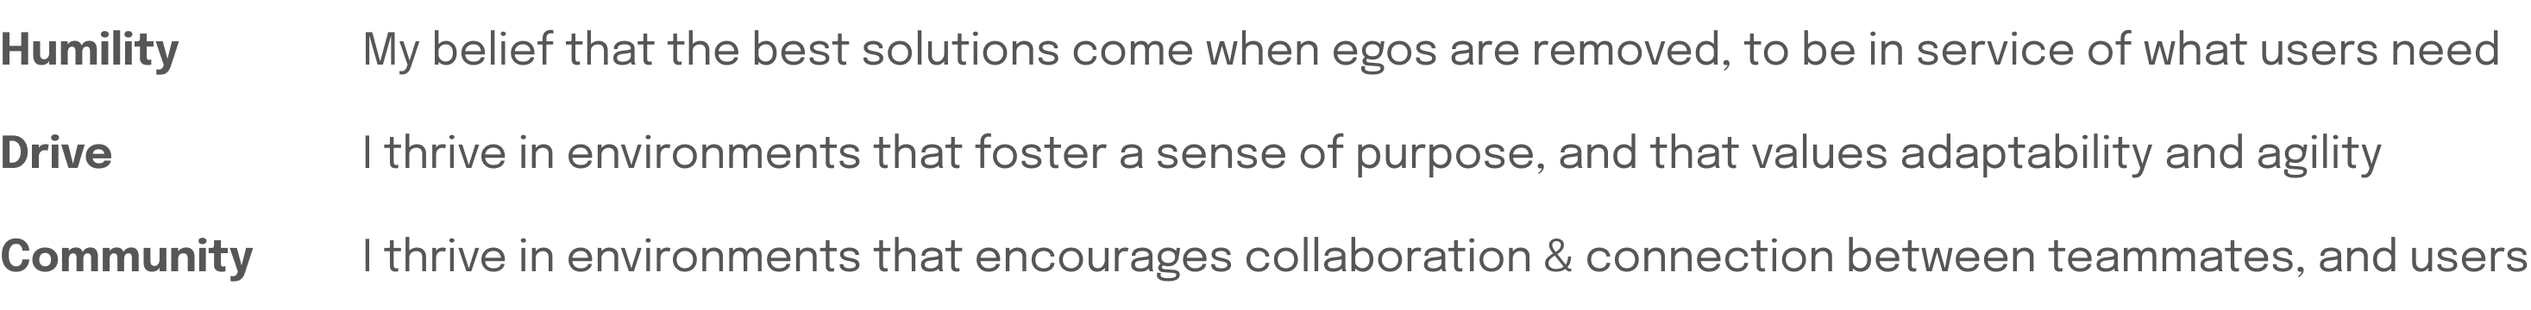
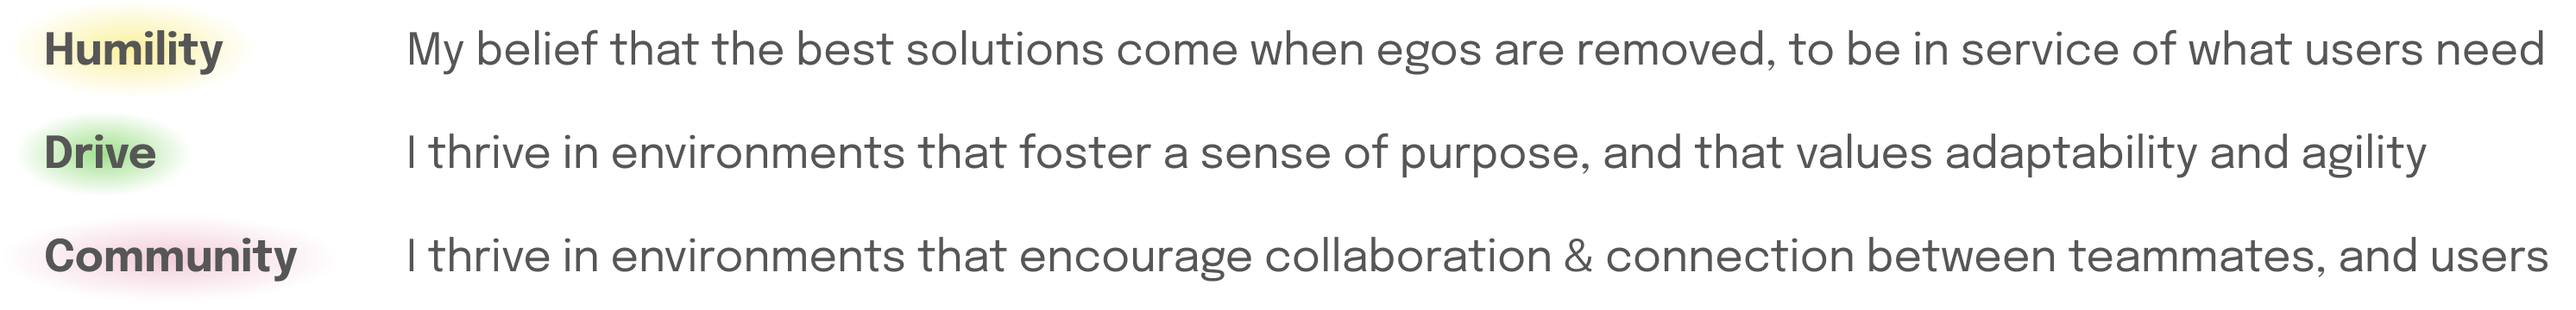
added animations to main page)

diff --git a/index.html b/index.html
@@ -49,7 +49,7 @@
                 <div class="hero">
                     <div style="max-width: 100%; text-align: center;">
                         <p data-aos="fade" data-aos-once="true" data-aos-delay="0" data-aos-duration="1000" data-aos-easing="ease-in-out" data-aos-mirror="false">Hi and welcome ◡̈</p>
-                        <h1 style="margin-top: 0.85rem; margin-bottom: 1.25rem;">I'm Stacy! A product designer who approaches design challenges with empathy and <span class="emphasis">humility</span>, and thrives on teams with <span class="emphasis">drive</span> and <span class="emphasis">community</span></h1>
+                        <h1 style="margin-top: 0.85rem; margin-bottom: 1.25rem;">I'm Stacy! A product designer who approaches design challenges with empathy and <span class="title-word title-word-1">humility</span>, and thrives on teams with <span class="title-word title-word-2">drive</span> and <span class="title-word title-word-3">community</span></h1>
                         <!-- <p style="max-width: 95%;">Recently designed for magical worlds <a href="https://www.jamcity.com/" target="_blank">@Jam City</a>, and for investing <a href="https://www.questrade.com/home" target="_blank">@Questrade</a>.</p> -->
                         <!-- <a href="https://www.questrade.com/" target="_blank">@Questrade</a>, <a href="https://www.lcbonext.com/" target="_blank">@LCBO|next</a>, and for non-profits <a href="https://uwblueprint.org/" target="_blank">@UW Blueprint</a> -->
                         <img src="assets-index/header.svg" style="max-width:120%;height:auto;padding-top: 1.25rem; padding-bottom: 0.75rem; padding-left: 1.5rem;">
@@ -73,14 +73,15 @@
             </div>
         </div> -->
         <br><br>
-        <div class="left-right-padding-small" data-aos="fade" data-aos-once="true" data-aos-delay="0" data-aos-duration="800" data-aos-easing="ease-in-out" data-aos-mirror="false">
+        <!-- <div class="left-right-padding-small" data-aos="fade" data-aos-once="true" data-aos-delay="0" data-aos-duration="800" data-aos-easing="ease-in-out" data-aos-mirror="false"> -->
+        <div class="left-right-padding-small" data-aos="fade-up" data-aos-once="true" data-aos-delay="0" data-aos-duration="500" data-aos-easing="ease-in-out" data-aos-mirror="false">
             <div class="hero" style="padding-right: 3rem;justify-content: center;">
                 <p class="line-behind" style="width: 100%;"><span style="background-color: #FCFCFC; padding: 0 15px; text-align: center;">What do the key words above mean to me?</span></p>
             </div>
-            <img src="assets-index-2/values.png" style="max-width:84%;height:auto;padding-left: 4rem;padding-top: 2.5rem;" data-aos="fade-up" data-aos-once="false" data-aos-delay="0" data-aos-duration="500" data-aos-easing="ease-in-out" data-aos-mirror="false">
+            <img src="assets-index-2/values.png" style="max-width:88%;height:auto;padding-left: 2.5rem;padding-top: 2rem;" data-aos="fade-up" data-aos-once="true" data-aos-delay="0" data-aos-duration="500" data-aos-easing="ease-in-out" data-aos-mirror="false">
         </div>
         <br><br><br>
-        <div class="left-right-padding-small" data-aos="fade" data-aos-once="true" data-aos-delay="0" data-aos-duration="800" data-aos-easing="ease-in-out" data-aos-mirror="false">
+        <div class="left-right-padding-small" data-aos="fade-up" data-aos-once="true" data-aos-delay="0" data-aos-duration="500" data-aos-easing="ease-in-out" data-aos-mirror="false">
             <div class="hero" style="padding-right: 3rem;justify-content: center;">
                 <p class="line-behind" style="width: 100%;"><span style="background-color: #FCFCFC; padding: 0 15px; text-align: center;">Featured projects</span></p>
                 <!-- <h4>My recent work ↓</h4> -->
@@ -123,7 +124,7 @@
                 </div>
             </div> -->
 
-            <div class="project-1-col" data-aos="fade-up" data-aos-once="false" data-aos-delay="0" data-aos-duration="500" data-aos-easing="ease-in-out" data-aos-mirror="false">
+            <div class="project-1-col" data-aos="fade-up" data-aos-once="true" data-aos-delay="0" data-aos-duration="500" data-aos-easing="ease-in-out" data-aos-mirror="false">
                 <a onclick="PassWord()" id="no-decor">
                     <div class="glow-gold">
                         <div style="padding-top: 0.5rem; padding-bottom: 1rem; margin-right: 0.25rem;">
@@ -140,7 +141,7 @@
                 </a>
             </div>
 
-            <div class="project-1-col" data-aos="fade-up" data-aos-once="false" data-aos-delay="0" data-aos-duration="500" data-aos-easing="ease-in-out" data-aos-mirror="false">
+            <div class="project-1-col" data-aos="fade-up" data-aos-once="true" data-aos-delay="0" data-aos-duration="500" data-aos-easing="ease-in-out" data-aos-mirror="false">
                 <a href="questrade.html" id="no-decor">
                     <div class="glow-green">
                         <div style="padding-top: 2rem; padding-bottom: 1rem; margin-right: 0.25rem;">
@@ -157,7 +158,7 @@
                 </a>
             </div>
 
-            <div class="project-1-col" data-aos="fade-up" data-aos-once="false" data-aos-delay="0" data-aos-duration="500" data-aos-easing="ease-in-out" data-aos-mirror="false">
+            <div class="project-1-col" data-aos="fade-up" data-aos-once="true" data-aos-delay="0" data-aos-duration="500" data-aos-easing="ease-in-out" data-aos-mirror="false">
                 <a href="sdc.html" id="no-decor">
                     <div class="glow-blue">
                         <div style="padding-top: 2rem; padding-bottom: 4rem; margin-right: 0.25rem;">
@@ -262,7 +263,7 @@
                 });
                 });
             </script>
-            <footer data-aos="fade-up" data-aos-once="false" data-aos-delay="0" data-aos-duration="350" data-aos-easing="ease-in-out" data-aos-mirror="false" style="text-align: center;">
+            <footer data-aos="fade-up" data-aos-once="true" data-aos-delay="0" data-aos-duration="350" data-aos-easing="ease-in-out" data-aos-mirror="false" style="text-align: center;">
                 <div class="line"></div>
                 <!-- <h2>Hope I made your day a bit <span style="font-weight: 700; font-size: 36px; line-height: 40px; letter-spacing: -0.01em; color: #3C3C3C;">sunnier</span>!</h2>
                 <p>Thanks for stopping by! While you’re here, why not say hi?</p> -->

diff --git a/main.css b/main.css
@@ -17,8 +17,8 @@ h1 {
     /* H1 header */
     font-weight: 400;
     font-size: 40px;
-    line-height: 60px;
-    letter-spacing: -0.03em;
+    line-height: 62px;
+    letter-spacing: -0.02em;
     color: #1A1A1A;
 }
 h2 {
@@ -226,10 +226,6 @@ footer > ul {
     margin-left: 1rem;
     margin-right: 3rem;
 }
-.emphasis {
-    font-weight: 700; font-size: 40px; line-height: 56px; letter-spacing: 0.01em; color: #3C3C3C;
-
-}
 
 
 
@@ -261,6 +257,58 @@ footer > ul {
 0% {opacity:0;}
 100% {opacity:1;}
 }
+
+.title-word {
+    animation: color-animation 6s linear infinite;
+    font-weight: 700; font-size: 40px; line-height: 56px; letter-spacing: 0.01em; color: #3C3C3C;
+    padding-top: 0.5rem;
+    padding-bottom: 0.25rem;
+    /* padding-left: 0.25rem;
+    padding-right: 0.25rem; */
+    /* -webkit-text-stroke: 1px black; */
+    /* background-color: #1A1A1A; */
+  }
+  
+  .title-word-1 {
+    /* --color-1: #F9EE8B; */
+    --color-1: radial-gradient(ellipse at 50% 50%, #F9EE8B 0%, #FCFCFC 100%);
+    --color-2: #FCFCFC;
+    --color-3: #FCFCFC;
+    /* --background-color-1: #F9EE8B;
+    --background-color-2: #3C3C3C;
+    --background-color-3: #3C3C3C; */
+  }
+  
+  .title-word-2 {
+    --color-1: #FCFCFC;
+    /* --color-2: #7FD368; */
+    --color-2: radial-gradient(ellipse at 50% 50%, #84D86D 0%, #FCFCFC 100%);
+    --color-3: #FCFCFC;
+    /* --background-color-1: #3C3C3C;
+    --background-color-2: #6BBF54;
+    --background-color-3: #3C3C3C; */
+  }
+  
+  .title-word-3 {
+    --color-1: #FCFCFC;
+    --color-2: #FCFCFC;
+    --color-3: radial-gradient(ellipse at 50% 50%, #F0C0D0 0%, #FCFCFC 100%);
+    /* --color-3: #F0C0D0; */
+    /* --background-color-1: #3C3C3C;
+    --background-color-2: #3C3C3C;
+    --background-color-3: #F0C0D0; */
+  }
+  
+  @keyframes color-animation {
+    0%    {background-image: var(--color-1)}
+    32%   {background-image: var(--color-1)}
+    33%   {background-image: var(--color-2)}
+    65%   {background-image: var(--color-2)}
+    66%   {background-image: var(--color-3)}
+    99%   {background-image: var(--color-3)}
+    100%  {background-image: var(--color-1)}
+  }
+
 
 /* INDEX PAGE */
 body {
@@ -395,7 +443,8 @@ body {
     /* background-color: #F7CF60; */
     cursor: pointer;
 
-    background-image: radial-gradient(ellipse at 50% 54%, #FBF6C9 0%, #FCFCFC 66%);
+    /* background-image: radial-gradient(ellipse at 50% 54%, #FBF6C9 0%, #FCFCFC 66%); */
+    background-image: radial-gradient(ellipse at 50% 56%, #FFFFB5 0%, #FCFCFC 66%);
     background-position: bottom; /* Align the glow to the bottom */
 }
 

diff --git a/me.html b/me.html
@@ -108,6 +108,7 @@
                 <h2>Say hi in an <a href="mailto:@s6kwok@uwaterloo.ca">email</a></h2>
                 <h2>Connect on <a href="https://www.linkedin.com/in/stacykwok-01/" target="_blank">Linkedin</a></h2>
                 <img src="assets-index/sun-footer.svg" style="max-width:80%;height:auto;padding-top: 0.75rem; padding-bottom: 0.6rem;">
+                <p>(Portfolio designed + coded with lots of 🎶 and 🫶)</p>
             </footer>
         <script src="https://unpkg.com/aos@next/dist/aos.js"></script>
         <script>AOS.init();</script>
